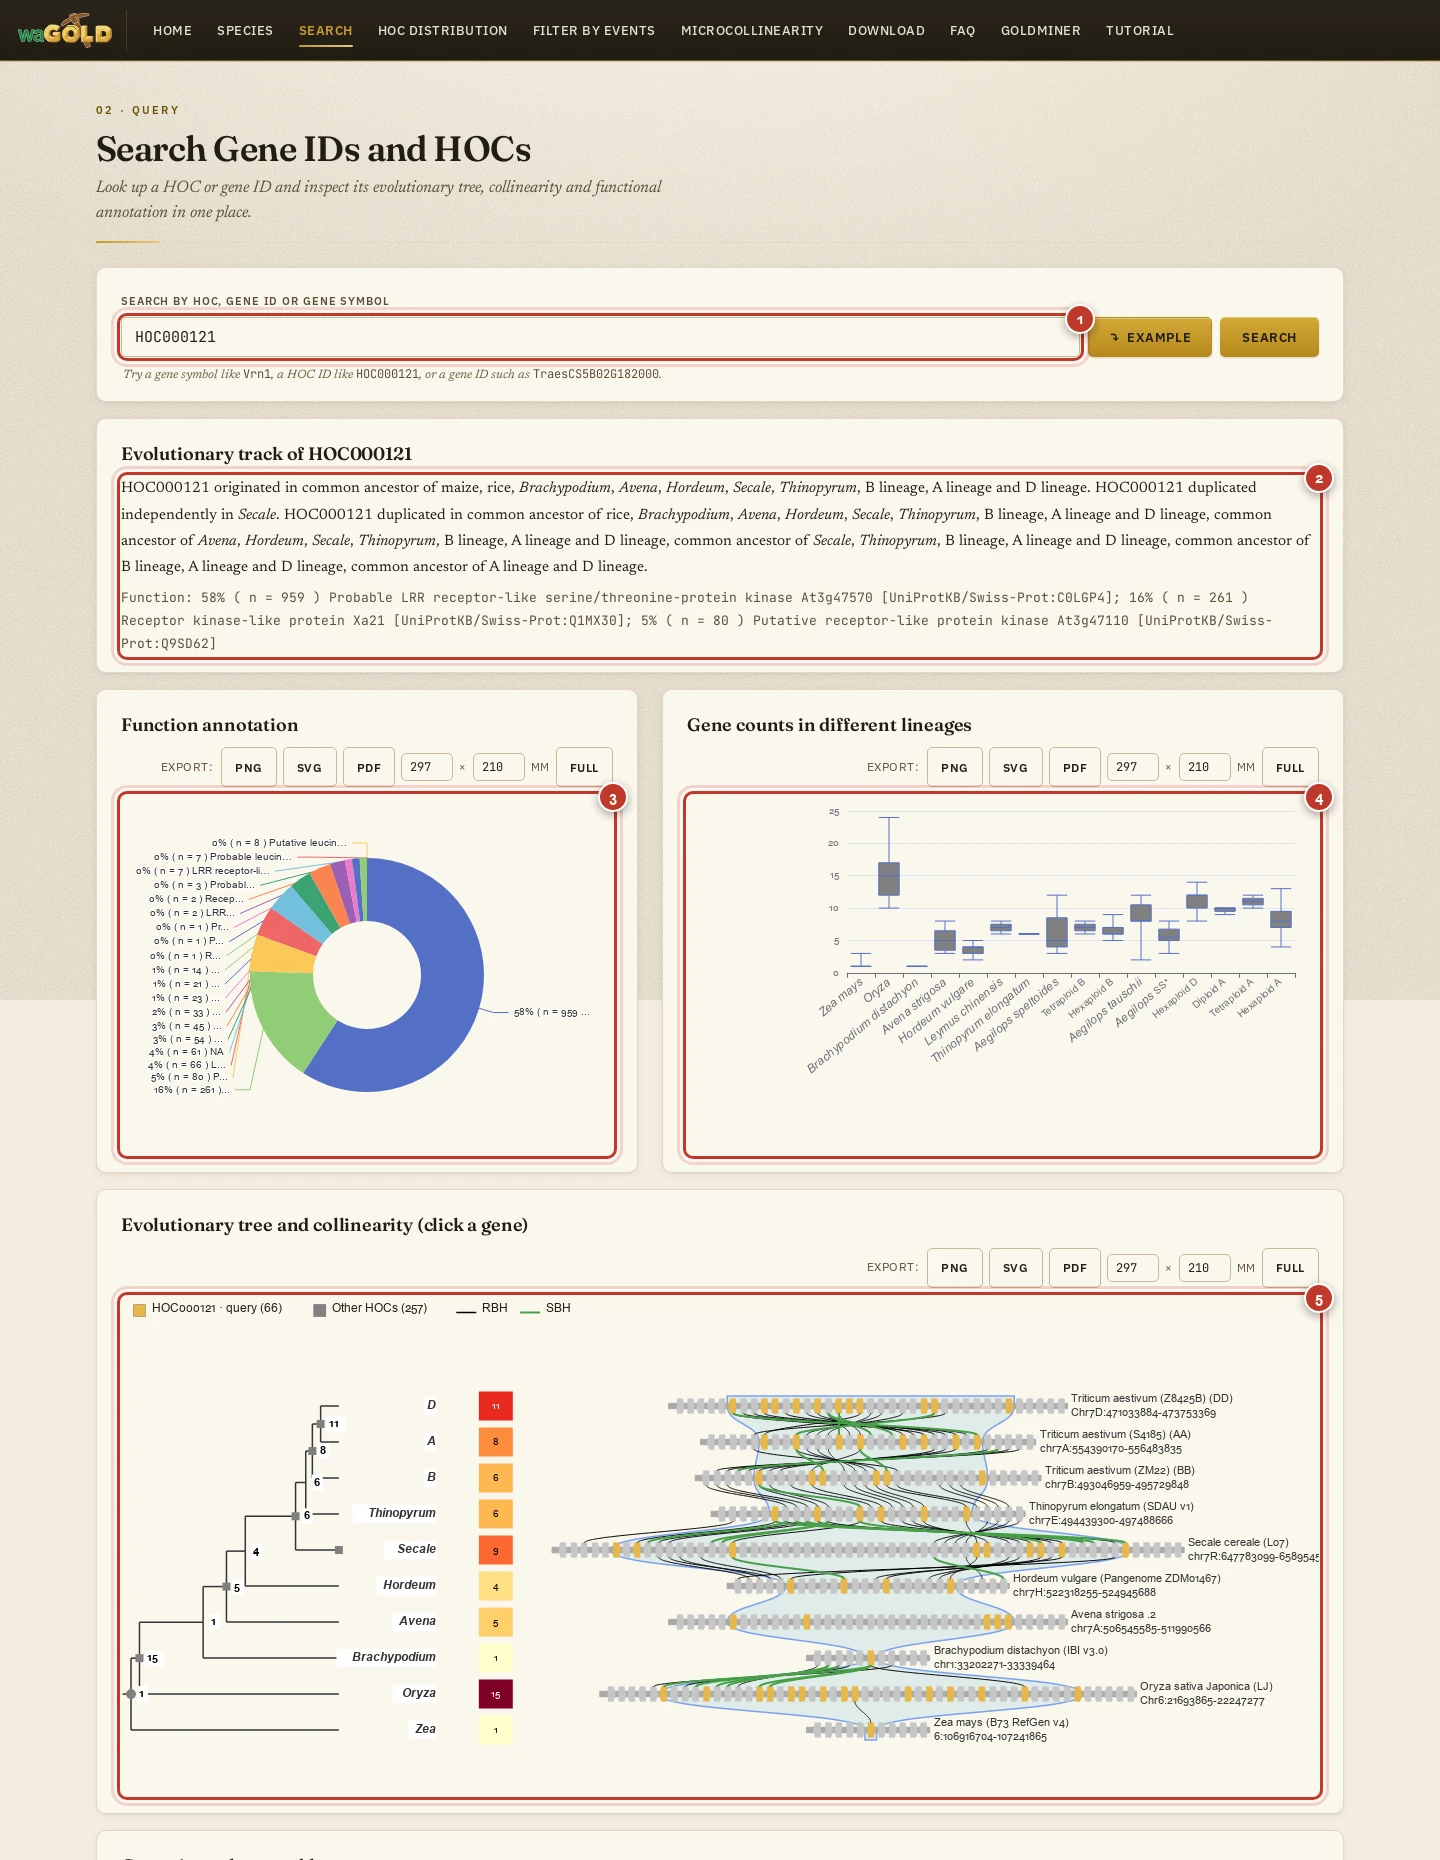
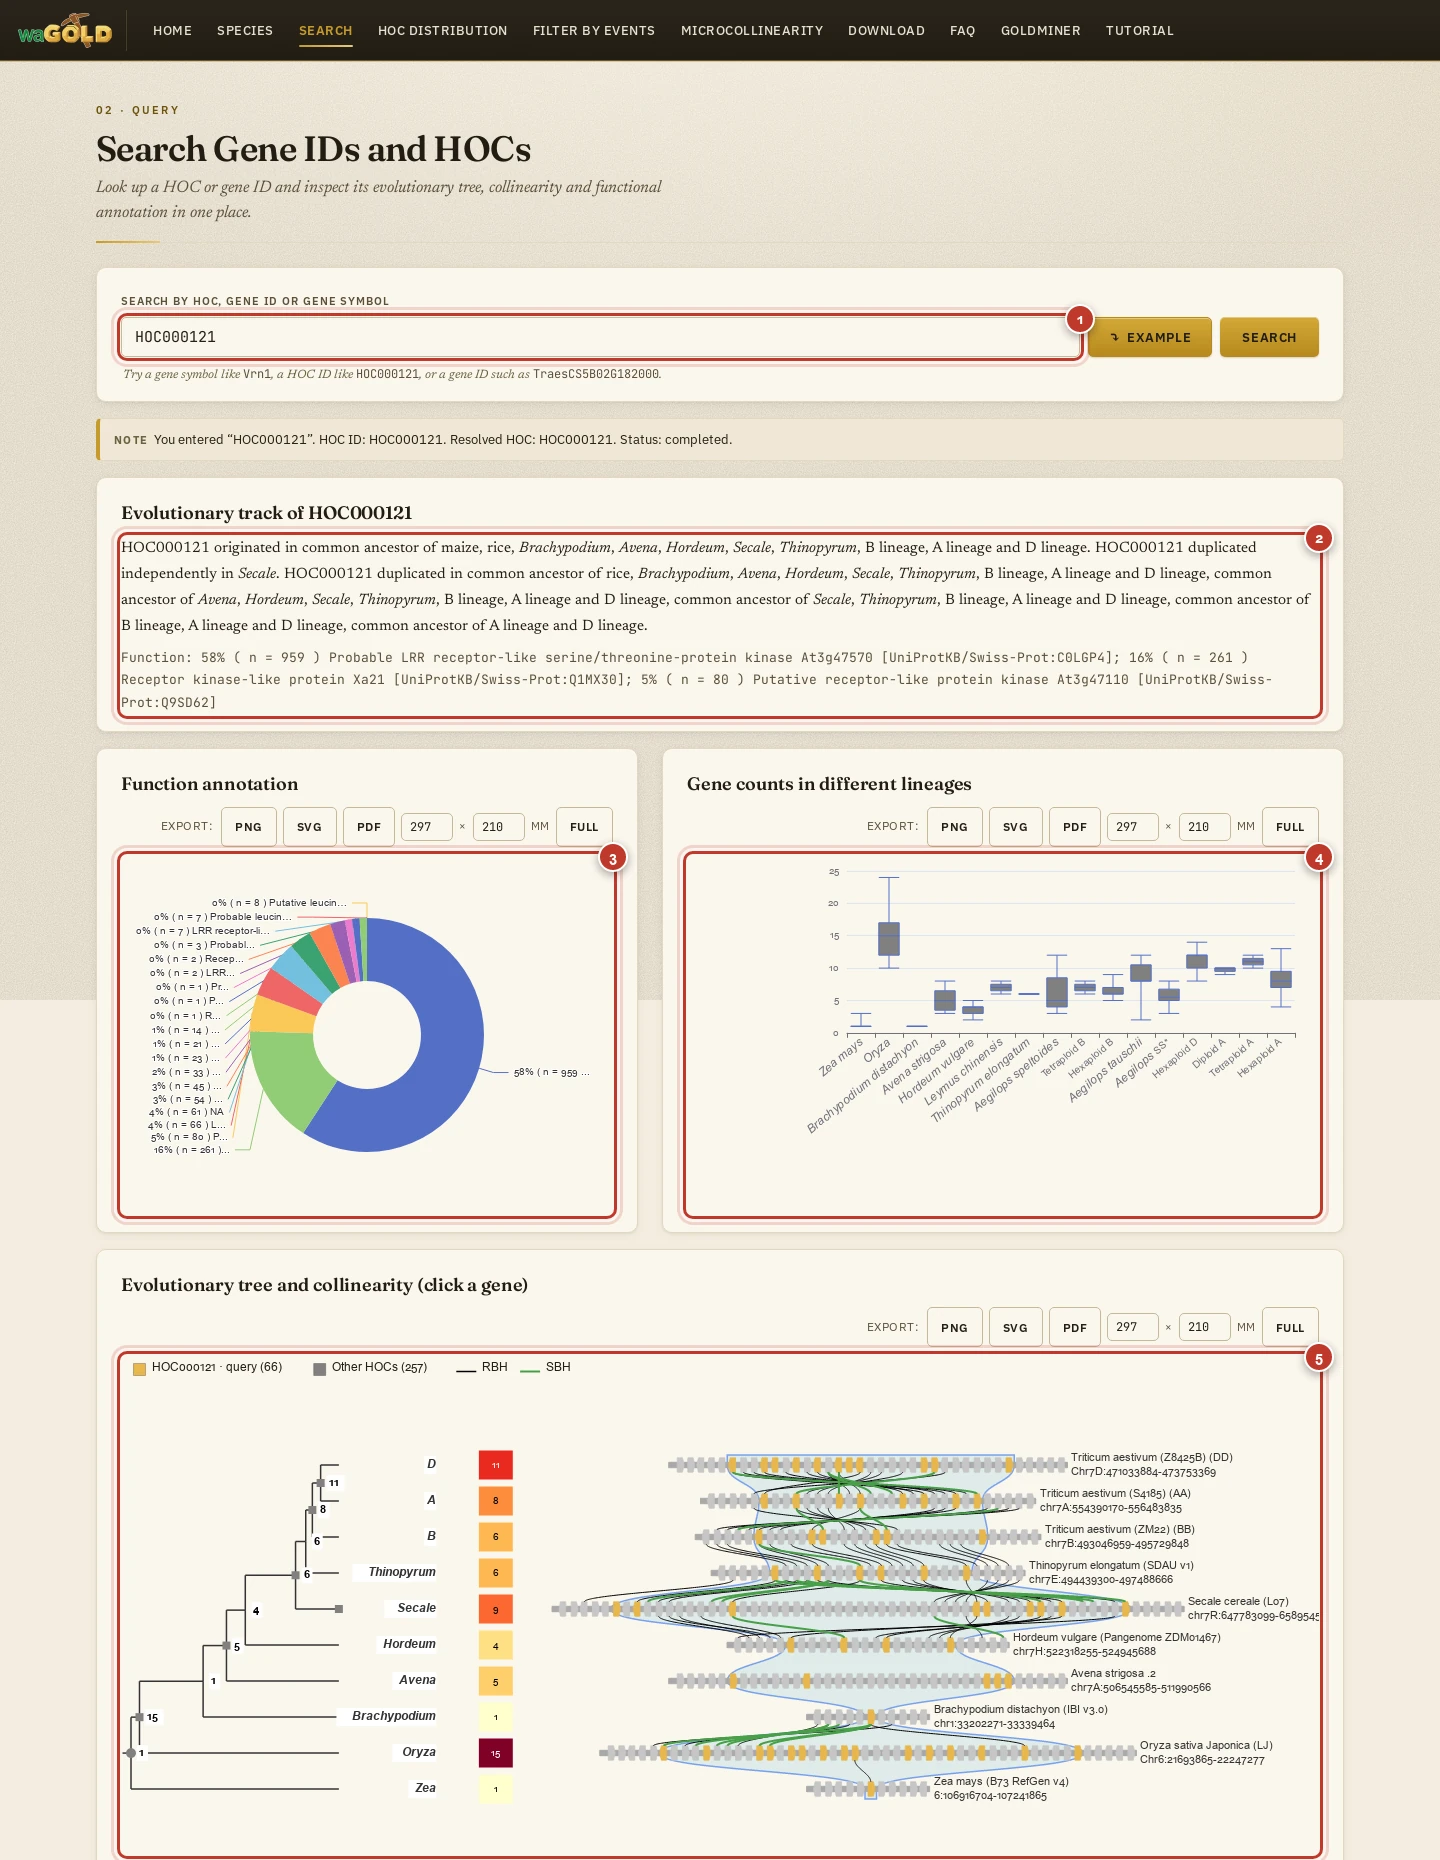
docs: document search query note

Changed region(s): [[0.0625, 0.2183, 0.9375, 1.0]]

diff --git a/waGOLD/README.md b/waGOLD/README.md
@@ -44,6 +44,8 @@ Every `Example` button loads a valid default query. Use it to explore the output
 
 **2. Evolutionary track.** A text summary of the inferred origin, duplication and loss events for the HOC, plus a putative function derived from member genes.
 
+**Query note.** Above the results, the `Note` banner records what you entered, automatic symbol conversion or manual selection, the resolved Gene ID and assembly, the resolved HOC, and the query status. Use it to verify that a symbol such as `Rht2` resolved to the gene you expected.
+
 **3. Function annotation.** Interactive pie chart showing the functional classification and proportions of genes in the HOC.
 
 **4. Gene counts in different lineages.** Box plots showing the distribution of gene counts across lineages.

diff --git a/waGOLD/zh-cn.md b/waGOLD/zh-cn.md
@@ -44,6 +44,8 @@ waGOLD 提供交互式可视化、数据导出（PNG、SVG、PDF 和表格）以
 
 **2. 进化轨迹摘要。** 根据 HOC 推断起源、复制和丢失事件，并根据成员基因给出可能的功能描述。
 
+**查询 Note。** 结果上方会显示 `Note`，记录你输入的原始内容、系统自动转换或用户手动选择的基因、解析后的 Gene ID 和组装、对应的 HOC，以及运行状态。可用于确认 `Rht2` 等 symbol 是否匹配到了预期的基因。
+
 **3. 功能注释。** 交互式饼图，显示 HOC 内基因的功能分类和比例。
 
 **4. 不同谱系的基因数。** 箱线图显示 HOC 基因数在各谱系中的分布。
